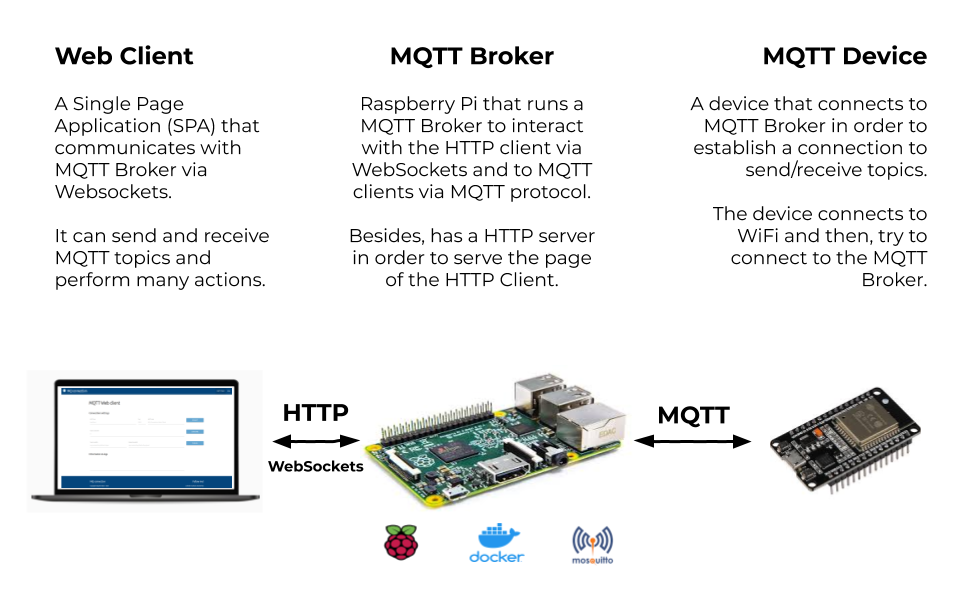
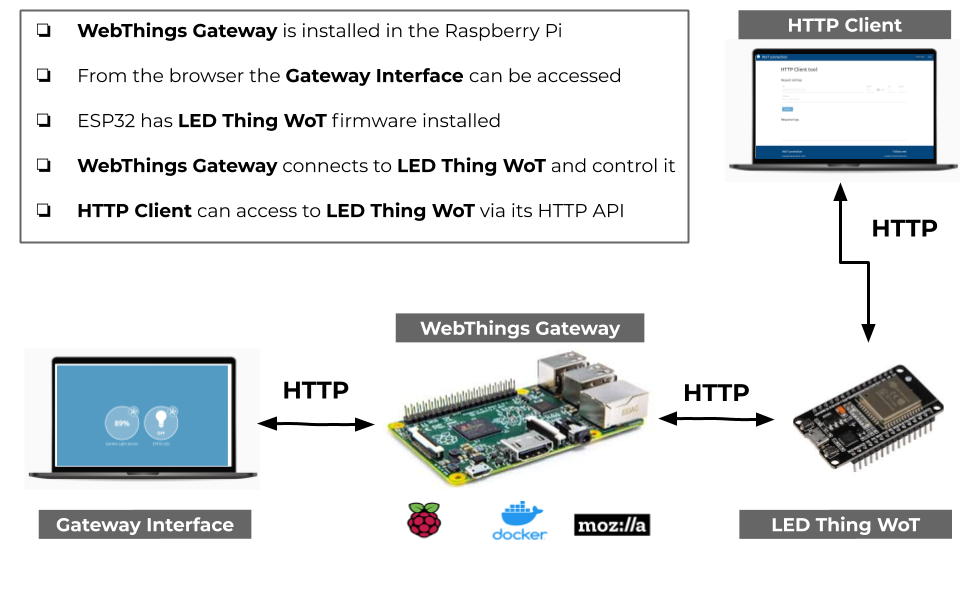
Creates documentation images

diff --git a/README.md b/README.md
@@ -4,10 +4,6 @@
 
 Author: Agustin Bassi - 2020
 
-# TODO:
-
-* Rename folders to entities WoT like thing, client, gateway, etc.
-
 ## 
 ## Table of Contents
 
@@ -23,9 +19,9 @@ Author: Agustin Bassi - 2020
 ## 
 ## Platform Description
 
-The goal of this project is to create an open source MQTT Platform to be used as a part of an IoT system, based on MQTT protocol.
+The goal of this project is to create an open source Web of Things (WoT) Platform to be used as a part of an IoT system, based on WoT protocol.
 
-The platform consists in several modules described below (All of them are well described in the [Project Wiki](https://github.com/agustinBassi/mq-connection/wiki)).
+The platform consists in several modules described below (All of them are well described in the [Project Wiki](https://github.com/agustinBassi/wot-connection/wiki)).
 
 * **MQTT Broker**: Raspberry Pi that runs a MQTT Broker to interact with the HTTP client via WebSockets and to MQTT clients via MQTT protocol. Besides, has a HTTP server in order to serve the page of the HTTP Client.
 * **MQTT Client Web**: A Single Page Application (SPA) that communicates with MQTT Broker via Websockets. It can send and receive MQTT topics and perform many actions. The code used for MQTT connection is based on [this project](https://github.com/jpmens/simple-mqtt-websocket-example).
